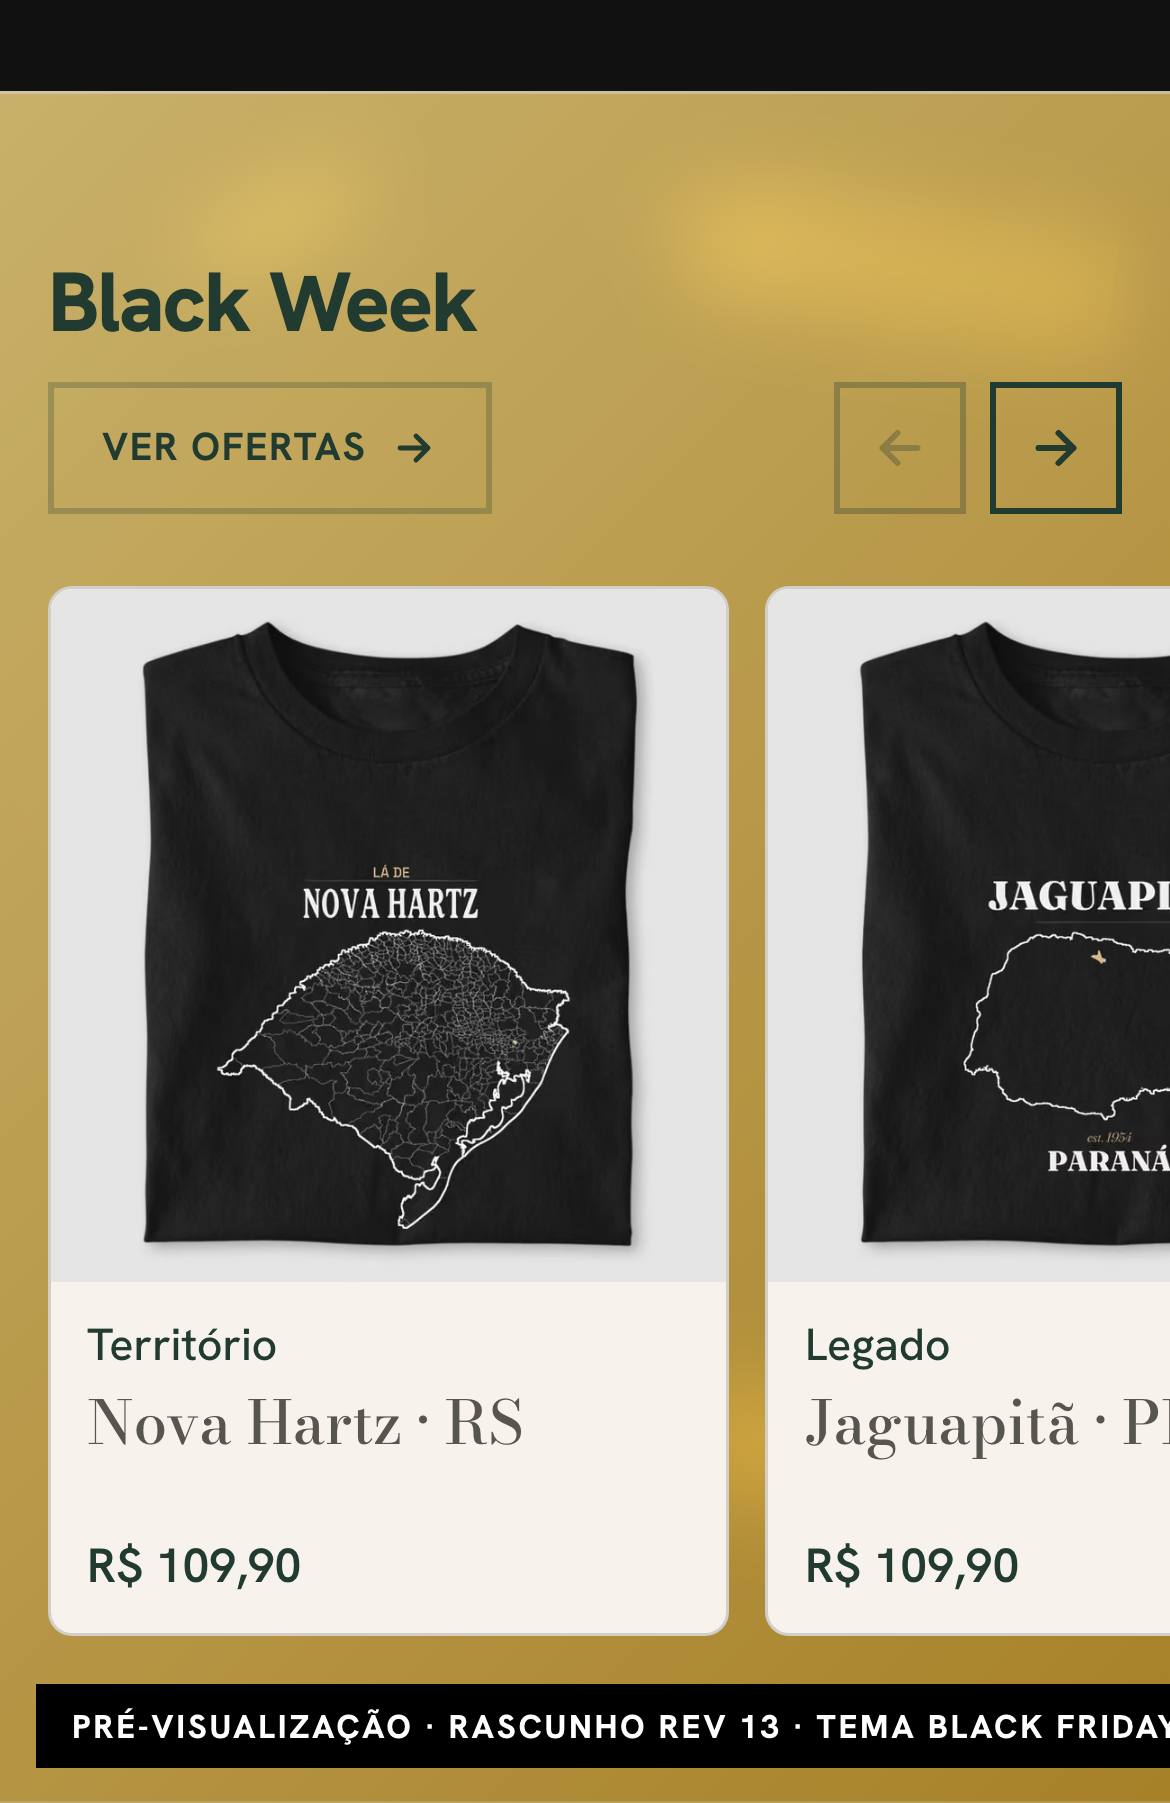
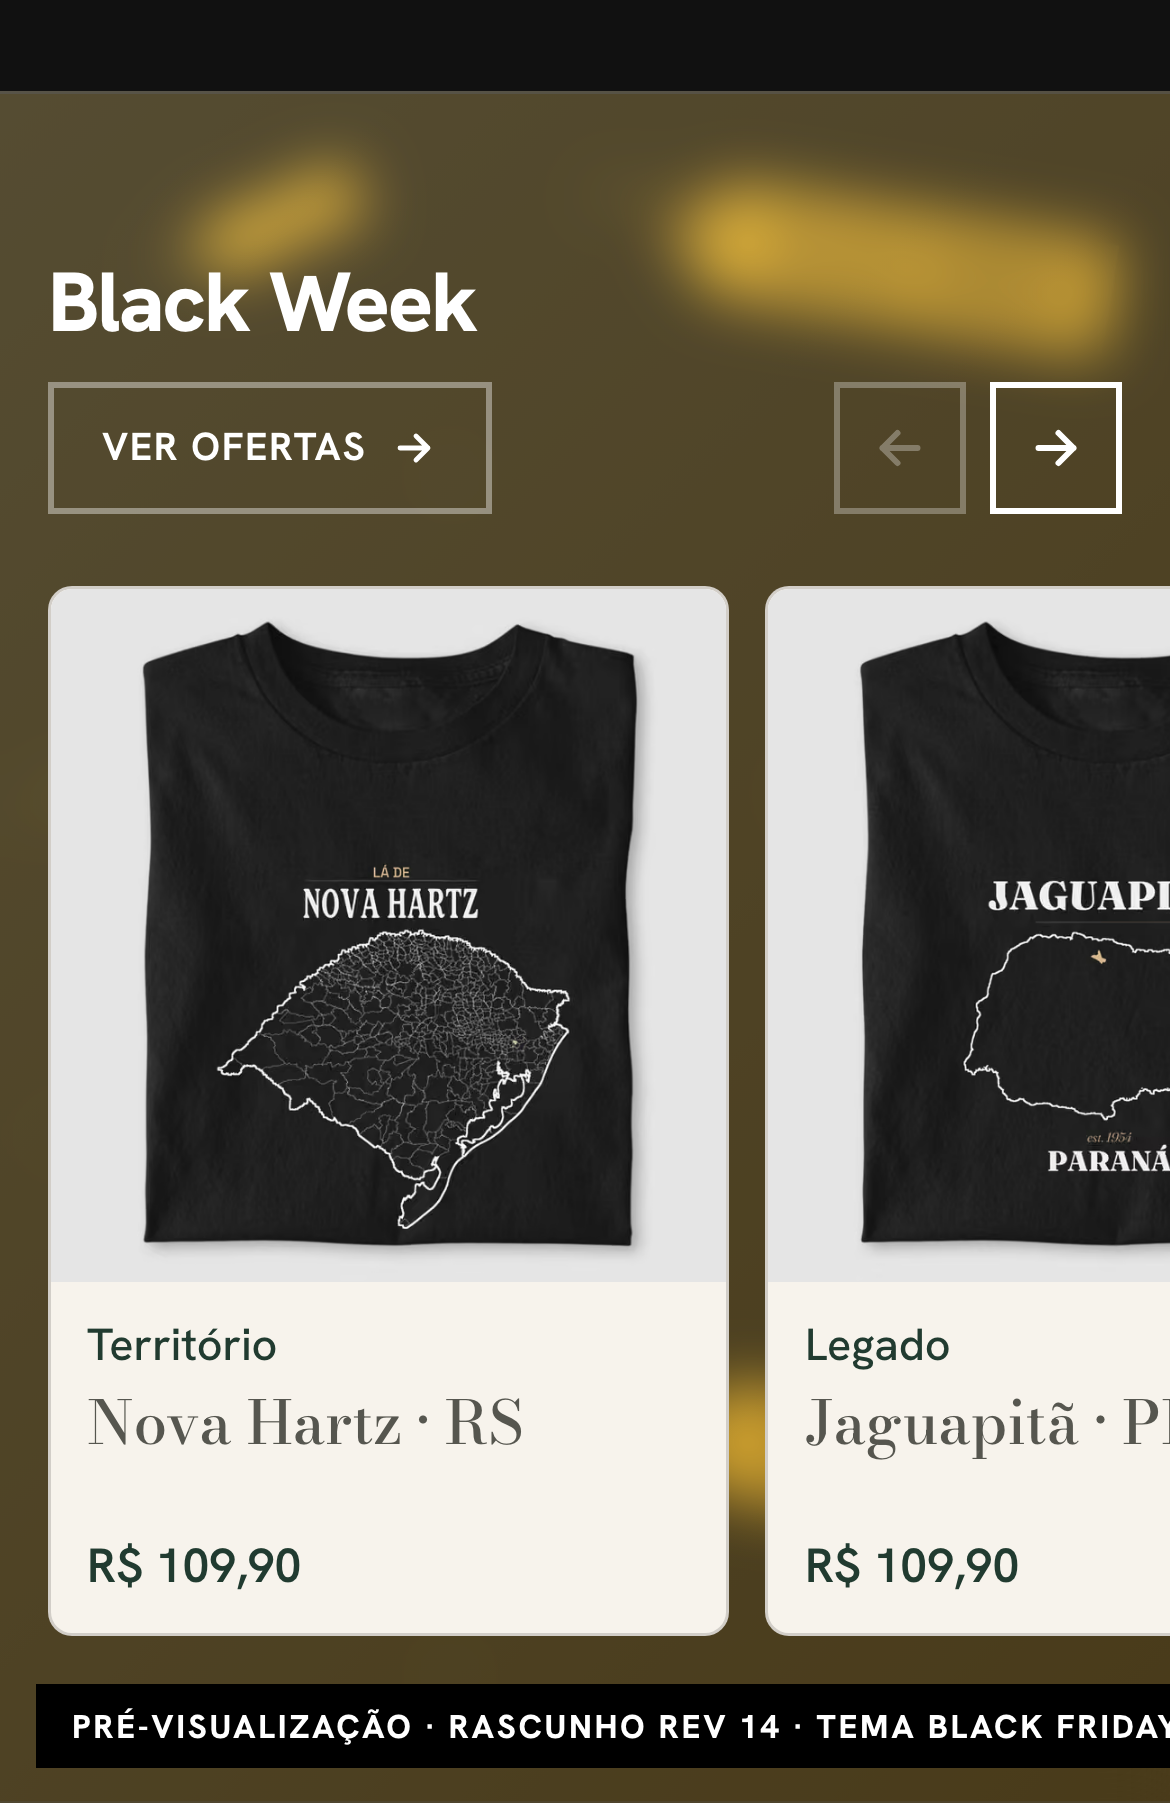
style(storefront): vidro das vitrines mais translúcido (30%, desfoque de 10 px), o fundo preto aparece através
Pedido do dono: o dourado cobria o fundo. Com o vidro escuro, a vitrine da Black Week usa texto claro.

diff --git a/src/components/banners/SectionBackdrop.tsx b/src/components/banners/SectionBackdrop.tsx
@@ -68,8 +68,8 @@ export function SectionBackdrop({ bg, priority = false, nativeFill = { kind: "no
     if (glass) {
       return (
         <>
-          <div aria-hidden="true" className="absolute inset-0 -z-10 [-webkit-backdrop-filter:blur(14px)_saturate(1.25)] [backdrop-filter:blur(14px)_saturate(1.25)]" />
-          <div aria-hidden="true" className={`absolute inset-0 -z-10 opacity-[0.88] shadow-[inset_0_1px_0_rgb(255_255_255/0.55),inset_0_-1px_0_rgb(255_255_255/0.25)] ${base.className}`} style={base.style} />
+          <div aria-hidden="true" className="absolute inset-0 -z-10 [-webkit-backdrop-filter:blur(10px)_saturate(1.3)] [backdrop-filter:blur(10px)_saturate(1.3)]" />
+          <div aria-hidden="true" className={`absolute inset-0 -z-10 opacity-[0.3] shadow-[inset_0_1px_0_rgb(255_255_255/0.55),inset_0_-1px_0_rgb(255_255_255/0.25)] ${base.className}`} style={base.style} />
         </>
       );
     }
